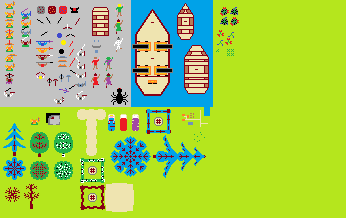
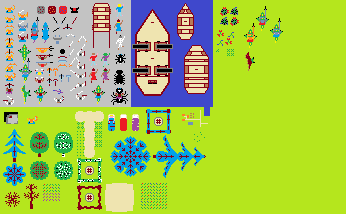
other camp generation and psevdograss ))

Changed region(s): [[0.0, 0.0, 0.8382, 1.0], [0.6936, 0.2523, 0.7514, 0.3364], [0.5491, 0.6168, 0.578, 0.6449]]

diff --git a/src/World_generating.java b/src/World_generating.java
@@ -29,22 +29,22 @@ public class World_generating {
             }
         }
 
-        add_central_cross();
-        for (int k = 0; k < 8; k++) {
-            add_camp();
+        add_cross(true);
+        for (int k = 0; k < 10; k++) {
+            add_cross(false);
         }
 
         for (int i = 0; i < localities.size(); i++) {
             for (int j = i + 1; j < localities.size(); j++) {
-                if (localities.get(j).distance_to_cross > localities.get(i).distance_to_cross) {
+                if (localities.get(j).distance_to_cener > localities.get(i).distance_to_cener) {
                     Collections.swap(localities, i, j);
                 }
             }
         }
 
-        for (int i = 0; i < localities.size(); i++) {
+        for (int i = 0; i < localities.size() - 1; i++) {
             int path = localities.size() - 1;
-            double path_gip = localities.size() - 1;
+            double path_gip = localities.get(i).distance_to_cener;
             for (int j = i + 1; j < localities.size() - 1; j++) {
                 if (!localities.get(j).there_road) {
                     double x1 = localities.get(i).x;
@@ -59,10 +59,32 @@ public class World_generating {
                 }
             }
             add_path(i, path);
-            if (localities.get(path).type == "camp") {
+            if (path != localities.size() - 1) {
                 localities.get(path).there_road = true;
             }
-            localities.get(i).there_road = true;
+            //localities.get(i).there_road = true;
+        }
+
+        int cross_count = localities.size() - 1;
+
+        for (int k = 0; k < 10; k++) {
+            if (add_camp()) {
+                int i = localities.size() - 1;
+                int path = cross_count - 1;
+                double path_gip = localities.get(i).distance_to_cener;
+                for (int j = 0; j < cross_count; j++) {
+                    double x1 = localities.get(i).x;
+                    double x2 = localities.get(j).x;
+                    double y1 = localities.get(i).y;
+                    double y2 = localities.get(j).y;
+                    double gip = Math.pow((x1 - x2) * (x1 - x2) + (y1 - y2) * (y1 - y2), 0.5);
+                    if (gip < path_gip) {
+                        path = j;
+                        path_gip = gip;
+                    }
+                }
+                add_path(i, path);
+            }
         }
 
         Random random = new Random();
@@ -90,24 +112,70 @@ public class World_generating {
                 add_forest(x, y, type, size, size);
             }
         }
-    }
 
-    void add_central_cross() {
-        double x = 0;
-        double y = 0;
-        int coord_x = map_size_x / 2;
-        int coord_y = map_size_y / 2;
-        hexes[coord_x][coord_y].hex_type = "central_cross";
-        Land_object road = new Land_object(x, y, 0);
-        road.setType("road");
-        hexes[coord_x][coord_y].lands.add(road);
-        localities.add(new Locality_object(x, y, 0, "central_cross"));
-        for(int i = -1; i <= 1; i ++) {
-            Unit_spawn("elf", x + i, y, 0);
+        for (int i = 0; i < map_size_x; i++) {
+            for (int j = 0; j < map_size_y; j++) {
+                if (hexes[i][j].hex_type == "nothing") {
+                    Land_object grass;
+                    grass = new Land_object((i - map_size_x / 2) * 27, (j - map_size_y / 2) * 27, 0);
+                    grass.setType("grass");
+                    hexes[i][j].lands.add(grass);
+                    hexes[i][j].hex_type = "grass";
+                }
+            }
         }
     }
 
-    void add_camp() {
+    void add_cross(boolean start) {
+        Random random = new Random();
+        double x;
+        double y;
+        boolean city_is_near;
+        int attempt = 100;
+        int coord_x, coord_y;
+        if (start) {
+            x = 0;
+            y = 0;
+            coord_x = map_size_x / 2;
+            coord_y = map_size_y / 2;
+        } else {
+            do {
+                city_is_near = false;
+                coord_x = random.nextInt(map_size_x / 5 - 1) * 5 + 5;
+                coord_y = random.nextInt(map_size_y / 5 - 1) * 5 + 5;
+                x = ((coord_x - map_size_x / 2) * 27);
+                y = ((coord_y - map_size_y / 2) * 27);
+                for (int k = 0; k < localities.size(); k++) {
+                    double gip = Math.pow((x - localities.get(k).x) * (x - localities.get(k).x) +
+                            (y - localities.get(k).y) * (y - localities.get(k).y), 0.5);
+                    int distance = 210;
+                    if (gip < distance) {
+                        city_is_near = true;
+                    }
+                }
+                attempt -= 1;
+            } while (city_is_near & attempt > 0);
+        }
+        if (attempt > 0) {
+            double distance;
+            if (start) {
+                distance = 0;
+                for(int i = -1; i <= 1; i ++) {
+                    Unit_spawn("elf", x + i, y, 0);
+                }
+            } else {
+                distance = Math.pow((localities.get(0).x - x) * (localities.get(0).x - x) +
+                        (localities.get(0).y - y) * (localities.get(0).y - y), 0.5);
+            }
+            hexes[coord_x][coord_y].hex_type = "cross";
+            Land_object road = new Land_object(x, y, 0);
+            road.setType("road");
+            hexes[coord_x][coord_y].lands.add(road);
+            localities.add(new Locality_object(x, y, distance, "cross"));
+        }
+    }
+
+    boolean add_camp() {
         Random random = new Random();
         double x;
         double y;
@@ -116,8 +184,8 @@ public class World_generating {
         int coord_x, coord_y;
         do {
             city_is_near = false;
-            coord_x = random.nextInt(map_size_x - 9) + 5;
-            coord_y = random.nextInt(map_size_y - 9) + 5;
+            coord_x = random.nextInt(map_size_x / 5 - 1) * 5 + 5;
+            coord_y = random.nextInt(map_size_y / 5 - 1) * 5 + 5;
             x = ((coord_x - map_size_x / 2) * 27);
             y = ((coord_y - map_size_y / 2) * 27);
             for (int k = 0; k < localities.size(); k++) {
@@ -129,7 +197,7 @@ public class World_generating {
                 }
             }
             attempt -= 1;
-        } while (city_is_near & attempt > 0);
+        } while ((city_is_near || hexes[coord_x][coord_y].hex_type == "road") && attempt > 0);
         if (attempt > 0) {
             double distance = Math.pow((localities.get(0).x - x) * (localities.get(0).x - x) +
                     (localities.get(0).y - y) * (localities.get(0).y - y), 0.5);
@@ -148,6 +216,9 @@ public class World_generating {
             }
             hexes[coord_x][coord_y].lands.add(camp);
             hexes[coord_x][coord_y].hex_type = "camp";
+            return true;
+        } else {
+            return false;
         }
     }
 
@@ -199,8 +270,8 @@ public class World_generating {
         int hex_y = y / 27 + map_size_y / 2;
         if (hexes[hex_x][hex_y].hex_type == "nothing") {
             hexes[hex_x][hex_y].hex_type = type;
-            int x_in_heks = random.nextInt(33) - 17;
-            int y_in_heks = random.nextInt(33) - 17;
+            int x_in_heks = random.nextInt(21) - 10;
+            int y_in_heks = random.nextInt(21) - 10;
             Barrier_object tree = new Barrier_object(x + x_in_heks, y + y_in_heks, 0);
             tree.setType(type);
             hexes[hex_x][hex_y].barriers.add(tree);

diff --git a/src/Locality.java b/src/Locality.java
@@ -1,14 +1,14 @@
 class Locality_object {
     double x;
     double y;
-    double distance_to_cross;
+    double distance_to_cener;
     String type;
     boolean there_road = false;
 
-    Locality_object(double x, double y, double distance_to_cross, String type) {
+    Locality_object(double x, double y, double distance_to_cener, String type) {
         this.x = x;
         this.y = y;
-        this.distance_to_cross = distance_to_cross;
+        this.distance_to_cener = distance_to_cener;
         this.type = type;
     }
 }

diff --git a/src/Land.java b/src/Land.java
@@ -19,6 +19,10 @@ class Land_object {
             this.pic = "data\\lands\\road.png";
             this.pic_size = 41;
         }
+        if (type == "grass") {
+            this.pic = "data\\lands\\grass.png";
+            this.pic_size = 27;
+        }
         if (type == "camp_birch") {
             this.pic = "data\\lands\\camp_birch.png";
             this.pic_size = 27;

diff --git a/src/Unit.java b/src/Unit.java
@@ -2,6 +2,7 @@ import java.lang.Math;
 
 class Unit_object {
     int player;
+    int localities;
     String fraction;
     String type;
     double x;
